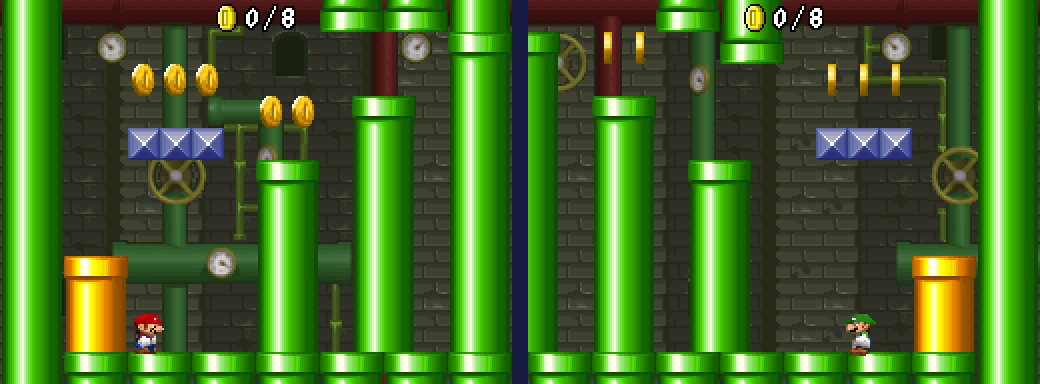
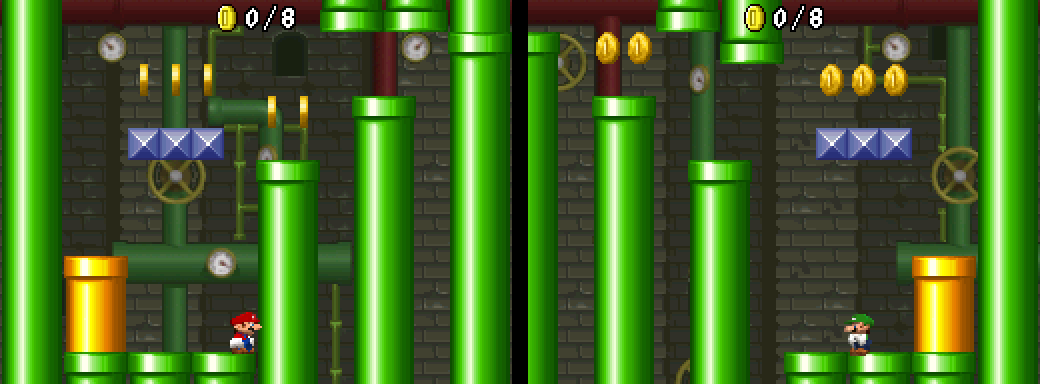
Update stage screenshots and maps for the harder stages
Claude-Session: https://claude.ai/code/session_014az4MYTwHmV75LdYbiWUiz

diff --git a/README.md b/README.md
@@ -206,7 +206,7 @@ The input in the stage select menu is synchronised between both DS systems, just
 
 ## Tested
 
-All fifteen new stages were played in a real two-player session with two melonDS instances (local wireless), including flipping pages and Random. The stages were also checked in single player in DeSmuME for tiles, enemies and blocks. The title screen was tested in DeSmuME: Mario Vs. Luigi and Options both work, the d-pad jumps between them and tapping where the removed buttons used to be does nothing.
+All fifteen new stages (in their harder versions, with lifts, blasters and Bob-ombs) were played in a real two-player session with two melonDS instances (local wireless), including flipping pages and Random. The stages were also checked in single player in DeSmuME for tiles, enemies and blocks. The title screen was tested in DeSmuME: Mario Vs. Luigi and Options both work, the d-pad jumps between them and tapping where the removed buttons used to be does nothing.
 
 Not tested yet: real hardware and DS Download Play (playing with someone who does not have the cartridge). The new stages are in the same archives that Download Play uses, so it should work.
 
